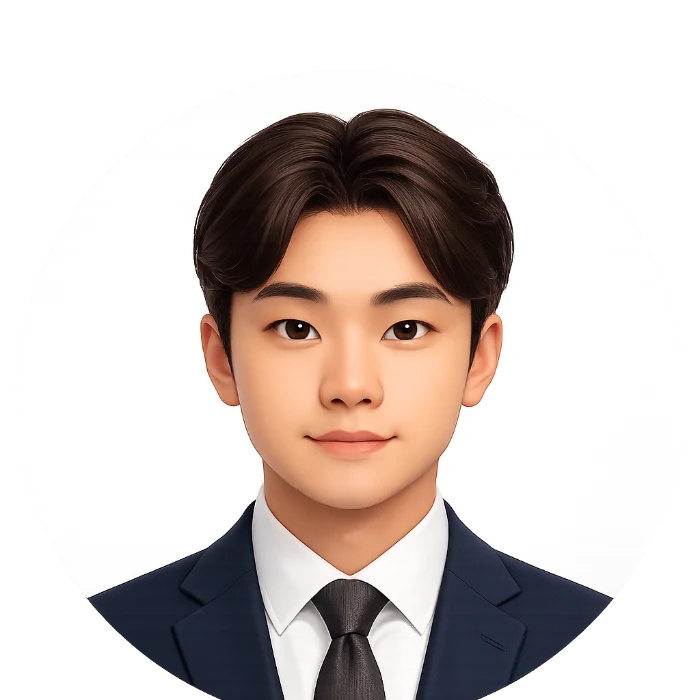
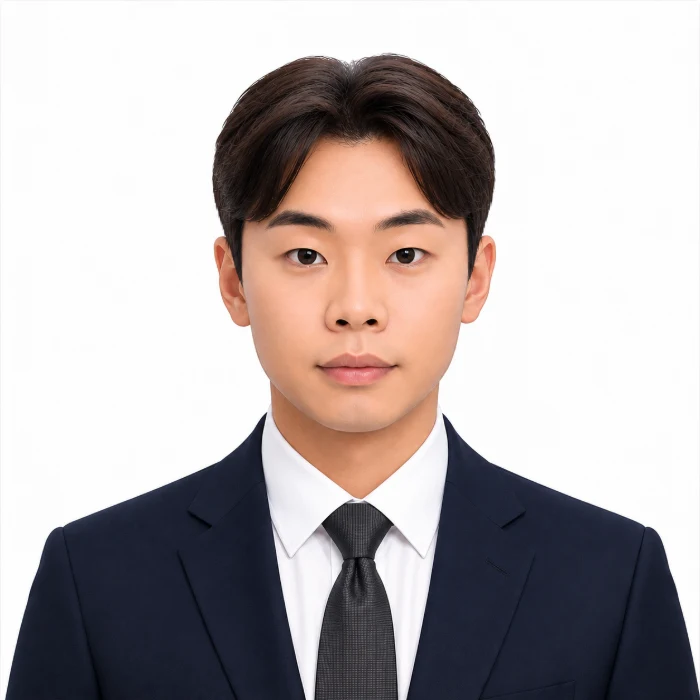
초상을 흰 배경 증명사진으로 교체하고 틀을 다시 사각으로
직전 정장 헤드샷은 원형 비네트(검은 모서리)라 원형 클립으로 가렸는데,
사용자가 배경이 평평한 흰색인 새 증명사진을 넣었다. 흰 배경은 흰 카드에
그대로 녹으므로 원형이 필요 없어졌다 → 틀을 다른 카드와 같은 사각(radius-lg)
으로 되돌리고 브레이크포인트 높이도 원래 비율(316/300/272/340/364)로 복원.

새 원본 img/ChatGPT Image ...10_53_53.png(1254x1254 정사각, 흰 배경)을
크롭 없이 700x700 webp(28.6KB)로 리사이즈. 라이트(카드에 매끄럽게 융합)·
다크(프레임 안 증명사진) 양쪽 확인, 오버플로 0.

diff --git a/Portfolio.tsx b/Portfolio.tsx
@@ -347,14 +347,12 @@ a.pf-visit:hover { color: var(--ink); border-color: var(--ink); background: var(
    query, and CSS can only outrank them with !important — which is why this
    file used to carry fifteen of them. */
 .pf-hero { display: flex; align-items: center; gap: 48px; margin-bottom: 44px; }
-/* Circular, not a rounded rect: the portrait is a circular-vignette ID photo
-   (white glow fading to black at the square's corners). A rectangular frame
-   showed those dark corners as a grey box against the white card. A circle clips
-   them off entirely — and works in both themes: on light the white glow blends
-   into the white card, on dark the black corners merge into the dark card.
-   That is why every breakpoint below keeps this box square — an ellipse would
-   crop the face off-centre. */
-.pf-photo { width: 300px; height: 300px; flex: none; border-radius: 50%; overflow: hidden; background: var(--panel); border: 1px solid var(--lineStrong); display: flex; align-items: center; justify-content: center; }
+/* Rounded rect. This works because the portrait is a flat white-background ID
+   photo: on the white card its edges just dissolve, and the border does the
+   framing. (An earlier portrait had a circular black vignette whose square
+   corners read as a grey box here — that one needed a circle to hide them. This
+   image doesn't, so the frame is back to matching every other card.) */
+.pf-photo { width: 300px; height: 316px; flex: none; border-radius: var(--radius-lg); overflow: hidden; background: var(--panel); border: 1px solid var(--lineStrong); display: flex; align-items: center; justify-content: center; }
 .pf-social-row { display: flex; align-items: center; gap: 10px; margin-bottom: 28px; }
 
 /* one rule replaces an eight-step font-size ladder; max deviation ~2px */
@@ -363,7 +361,7 @@ a.pf-visit:hover { color: var(--ink); border-color: var(--ink); background: var(
 /* ── 1) ≤1200px · 좁은 데스크톱/노트북 ───────────────────────── */
 @media (max-width: 1200px) {
   .pf-pad { padding: 36px 44px 40px; }
-  .pf-photo { width: 280px; height: 280px; }
+  .pf-photo { width: 280px; height: 300px; }
   .pf-grid { grid-template-columns: 56px 1fr 126px 118px 70px 56px; gap: 16px; }
 }
 
@@ -371,15 +369,15 @@ a.pf-visit:hover { color: var(--ink); border-color: var(--ink); background: var(
 @media (max-width: 1024px) {
   .pf-pad { padding: 34px 38px 38px; }
   .pf-hero { gap: 36px; }
-  .pf-photo { width: 248px; height: 248px; }
+  .pf-photo { width: 248px; height: 272px; }
   .pf-grid { grid-template-columns: 52px 1fr 120px 104px 64px 52px; gap: 14px; }
 }
 
 /* ── 3) ≤880px · 태블릿 세로 (히어로 세로 스택, 스택 열 숨김) ──── */
 @media (max-width: 880px) {
   .pf-hero { flex-direction: column-reverse; align-items: stretch; gap: 24px; }
-  /* the hero stacks here; pin the circle to a fixed size and centre it rather
-     than letting it stretch to the column width (which would make a huge oval). */
+  /* square, not full-bleed: the portrait is 1:1, and a full-width letterbox
+     crops it to a band across the eyes */
   .pf-photo { width: 240px; height: 240px; align-self: center; }
   .pf-grid { grid-template-columns: 48px 1fr 140px 64px 52px; gap: 14px; }
   .pf-col-stack { display: none; }
@@ -417,7 +415,7 @@ a.pf-visit:hover { color: var(--ink); border-color: var(--ink); background: var(
 @media (min-width: 1440px) {
   .pf-card { width: min(1360px, 100%); }
   .pf-pad { padding: 48px 64px 52px; }
-  .pf-photo { width: 320px; height: 320px; }
+  .pf-photo { width: 320px; height: 340px; }
   .pf-grid { grid-template-columns: 72px 1fr 148px 148px 84px 68px; gap: 24px; }
 }
 
@@ -425,7 +423,7 @@ a.pf-visit:hover { color: var(--ink); border-color: var(--ink); background: var(
 @media (min-width: 1680px) {
   .pf-card { width: min(1480px, 100%); }
   .pf-pad { padding: 52px 72px 56px; }
-  .pf-photo { width: 344px; height: 344px; }
+  .pf-photo { width: 344px; height: 364px; }
 }
 
 /* ── 0c) 초고해상도 (FHD~8K) · 카드 전체를 zoom으로 비례 확대 ──────
